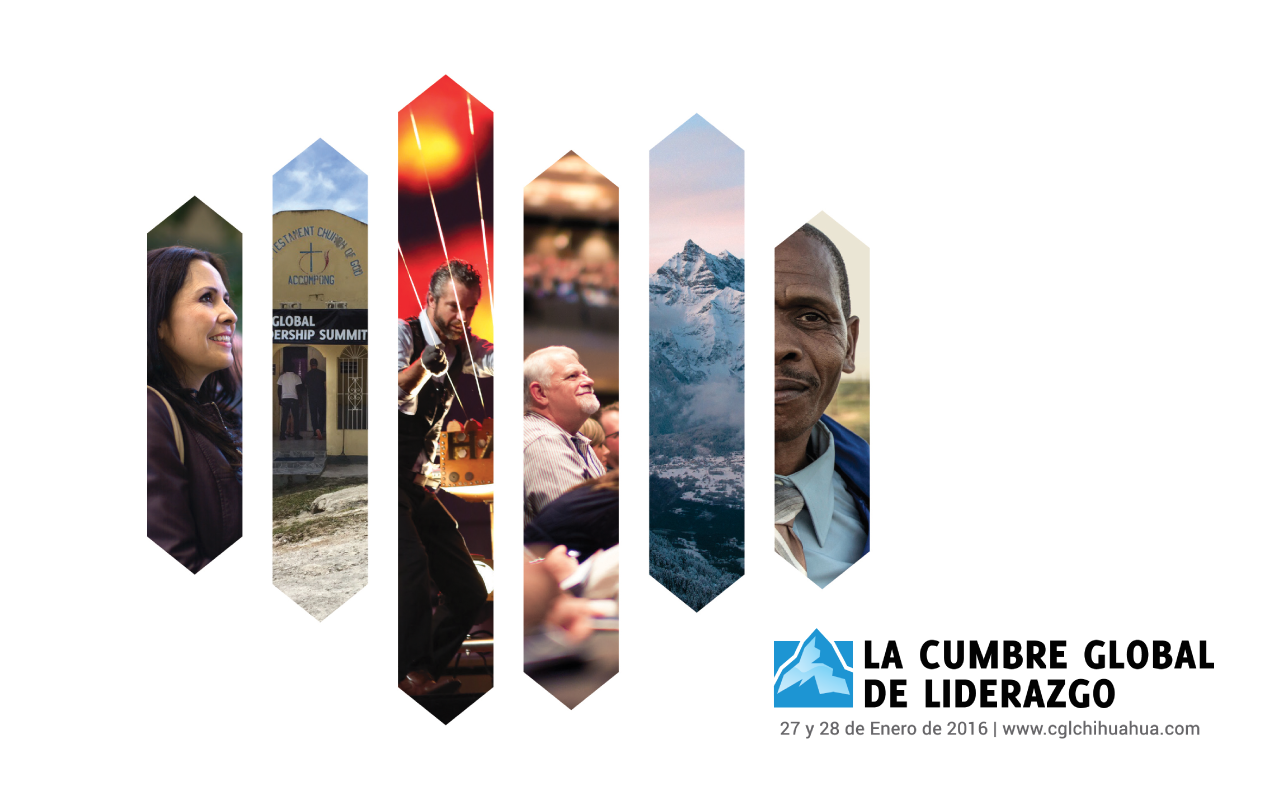
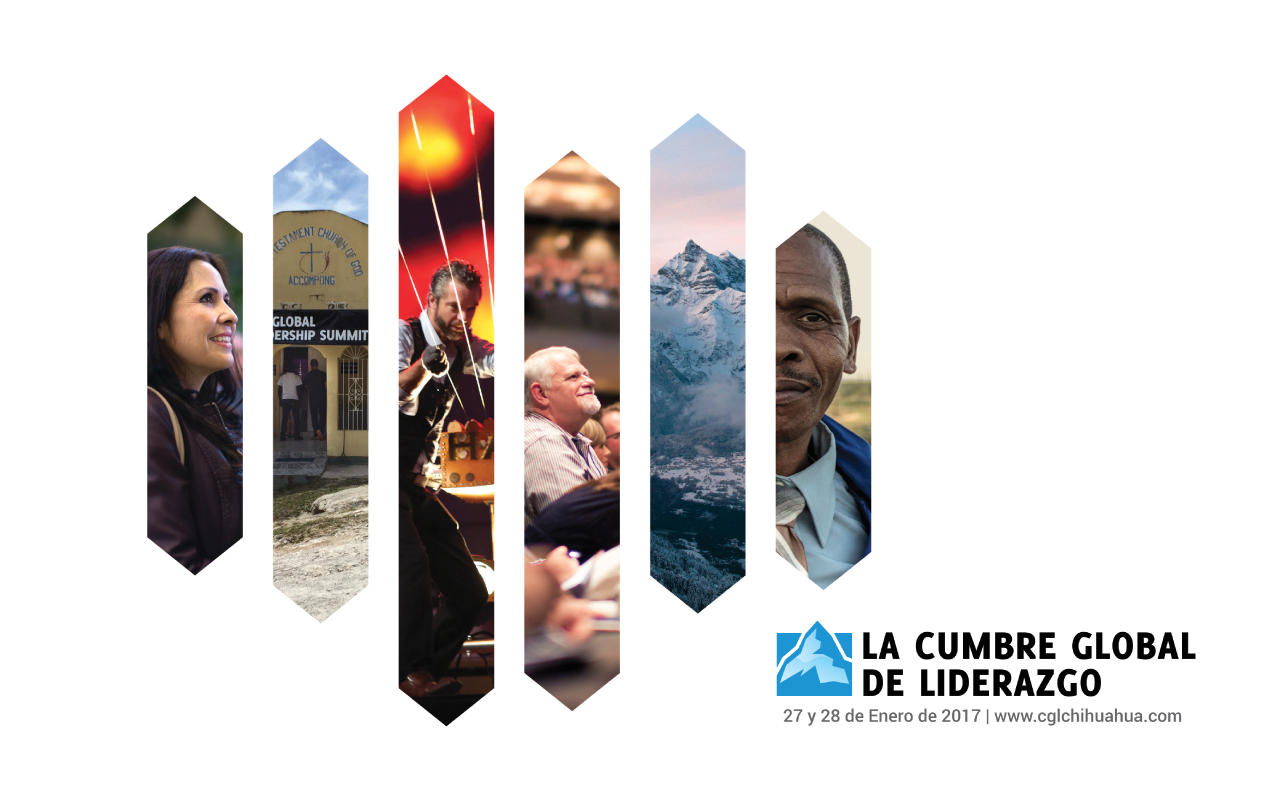
Se agregaron las pestanas de iconos, informacion de cada una de ellas, contacto sin formulario y se modicifo el top page, pero faltan cosas

diff --git a/public/index.html b/public/index.html
@@ -53,7 +53,7 @@
       <div id="top" class="container">
           <div class="row">
               <div class="col-xs-12 vertical-center mainArtContainer">
-                  <img src="img/thumbs/cumbre-thumb5.png" alt="TGLS2016 Main Art" class="mainArt"/>
+                  <img src="img/thumbs/cumbre-thumb6.png" alt="TGLS2016 Main Art" class="mainArt"/>
               </div>
           </div>
       </div>
@@ -115,47 +115,18 @@
         <div class="container">
           <div class="col-lg-12">
             <ul class="nav nav-tabs nav-tabs-titles" role="tablist">
-              <a href="#ubicacionFecha" class="col-lg-3 col-sm-6" aria-controls="ubicacionFecha" role="tab" data-toggle="tab">
+              <a href="#{{icon.id}}" class="col-sm-3 col-xs-6 scroll" aria-controls="{{icon.id}}" role="tab" data-toggle="tab" ng-repeat="icon in informacionIcons">
                 <li role="presentation" class="active  hvr-grow">
                     <div class="col-lg-12">
-                      <img class="icons" src="img/icons/icon_travel_locations.png" alt="Ubicacion" />
+                      <img class="icons" ng-src="{{icon.icon_url}}" alt="{{icon.id}}" />
                     </div>
                     <div class="col-lg-12">
-                      UBICACION & FECHAS
-                    </div>
-                </li>
-              </a>
-              <a href="#registro" class="col-lg-3 col-sm-6" aria-controls="registro" role="tab" data-toggle="tab">
-                <li role="presentation" class=" hvr-grow">
-                    <div class="col-lg-12">
-                      <img class="icons" src="img/icons/icon_travel_registration.png" alt="Registro" />
-                    </div>
-                    <div class="col-lg-12">
-                      REGISTRO
-                    </div>
-                </li>
-              </a>
-              <a href="#agenda" class="col-lg-3 col-sm-6"  aria-controls="agenda" role="tab" data-toggle="tab">
-                <li role="presentation" class=" hvr-grow">
-                    <div class="col-lg-12">
-                      <img class="icons" src="img/icons/icon_travel_agenda.png" alt="agenda" />
-                    </div>
-                    <div class="col-lg-12">
-                      AGENDA
-                    </div>
-                </li>
-              </a>
-              <a href="#precios"  class="col-lg-3 col-sm-6" aria-controls="precios" role="tab" data-toggle="tab">
-                <li role="presentation" class=" hvr-grow">
-                    <div class="col-lg-12">
-                      <img class="icons" src="img/icons/icon_travel_pricing.png" alt="" />
-                    </div>
-                    <div class="col-lg-12">
-                      PRECIOS
+                      {{icon.nombre}}
                     </div>
                 </li>
               </a>
             </ul>
+            <hr>
             <div class="tab-content">
               <div role="tabpanel" class="tab-pane active" id="ubicacionFecha">
                 <h3>UBICACION & FECHAS</h3>
@@ -164,13 +135,116 @@
                     <iframe src='https://www.google.com/maps/embed?pb=!1m18!1m12!1m3!1d3501.7719342696!2d-106.08611168791084!3d28.636596690654216!2m3!1f0!2f0!3f0!3m2!1i1024!2i768!4f13.1!3m3!1m2!1s0x86ea44c5be3e84bd%3A0xd7b2caa3d186c81b!2sMuseo+Semilla!5e0!3m2!1sen!2smx!4v1465948453243' width='600' height='450' frameborder='0' style='border:0' allowfullscreen></iframe>
                   </div>
                 </div>
-                <div class="col-lg-4 col-sm-12">
+                <div class="col-lg-4 col-sm-12 ubicacionFechaText">
+                  <h3>UBICACION</h3>
+                  <div class="text-left">
+                    <p>Museo Semilla</p>
+                    <p>Auditorio Leonardo Da Vinci</p>
+                  </div>
+                  <div class="ubicacionFechaDireccion">
+                    <p>Privada Progreso 1201, San Pedro, </p>
+                    <p>Zona Centro II, 31000,</p>
+                    <p>Chihuahua, Chih, Mx.</p>
+                  </div>
+                  <h3>FECHAS</h3>
+                  <div class="ubicacionFechaFechas">
+                    <p>Dia 1 - Viernes 27 de Enero</p>
+                    <p>Dia 2 - Sabado 28 de Enero</p>
+                  </div>
+                  <div class="comInfo">
+                    <h5>*Los dos dias incluyen refrigerios y comida. </h5>
+                  </div>
+                </div>
+              </div>
+              <div role="tabpanel" class="tab-pane" id="registro">
+                <h3>REGISTRO</h3>
+                <div class="col-lg-12">
                   AQUI VAN LAS FECHAS
                 </div>
               </div>
-              <div role="tabpanel" class="tab-pane" id="registro">registro</div>
-              <div role="tabpanel" class="tab-pane" id="agenda">agenda</div>
-              <div role="tabpanel" class="tab-pane" id="precios">precios</div>
+              <div role="tabpanel" class="tab-pane" id="agenda">
+                <h3>AGENDA</h3>
+                <div class="col-lg-12">
+                  <div class="agenda">
+                    <div class="table-responsive">
+                        <table class="table table-condensed table-bordered">
+                            <thead>
+                                <tr>
+                                    <th>Fecha</th>
+                                    <th>Hora</th>
+                                    <th>Evento</th>
+                                </tr>
+                            </thead>
+                            <tbody>
+                                <tr>
+                                    <td class="agenda-date" class="active" rowspan="1">
+                                        <div class="dayofmonth">27</div>
+                                        <div class="dayofweek">Viernes</div>
+                                        <div class="shortdate text-muted">Enero, 2017</div>
+                                    </td>
+                                    <td class="agenda-time">
+                                        6:00 PM
+                                    </td>
+                                    <td class="agenda-events">
+                                        <div class="agenda-event">
+                                            Algun Evento
+                                        </div>
+                                    </td>
+                                </tr>
+                                <tr>
+                                    <td class="agenda-date" class="active" rowspan="3">
+                                        <div class="dayofmonth">28</div>
+                                        <div class="dayofweek">Sabado</div>
+                                        <div class="shortdate text-muted">Enero, 2017</div>
+                                    </td>
+                                    <td class="agenda-time">
+                                        8:00 - 9:00 AM
+                                    </td>
+                                    <td class="agenda-events">
+                                        <div class="agenda-event">
+                                            Algun Evento
+                                        </div>
+                                    </td>
+                                </tr>
+                                <tr>
+                                    <td class="agenda-time">
+                                        10:15 AM - 12:00 PM
+                                    </td>
+                                    <td class="agenda-events">
+                                        <div class="agenda-event">
+                                            Algun Evento
+                                        </div>
+                                    </td>
+                                </tr>
+                                <tr>
+                                    <td class="agenda-time">
+                                        7:00 - 9:00 PM
+                                    </td>
+                                    <td class="agenda-events">
+                                        <div class="agenda-event">
+                                            Algun Evento
+                                        </div>
+                                    </td>
+                                </tr>
+                            </tbody>
+                        </table>
+                    </div>
+                  </div>
+                </div>
+              </div>
+              <div role="tabpanel" class="tab-pane" id="precios">
+                <h3>PRECIOS</h3>
+                <div class="col-xs-6 col-sm-4 informacionPrecios" ng-repeat="precio in informacionPrecios">
+                  <div class="preciosI">
+                    <img ng-src="{{precio.icon_url}}" alt="{{precio.nombre}}" />
+                    <h3>{{precio.nombre}}<br><span>{{precio.needed}}</span></h3>
+                    <h4>{{precio.precio | currency:"MXN$"}} <span>{{precio.ex}}</span></h4>
+                  </div>
+                </div >
+                <h6 class="col-xs-12">
+                  *Todas las entradas incluyen gafete oficial de la Cumbre Global de Liderazgo, Notebook para hacer anotaciones durante las conferencias, con anotaciones de cada conferencistae, pluma de la cumbre, refrigerio entre conferencias y comida el Sabado 28.
+                </h6>
+              </div>
             </div>
           </div>
         </div>
@@ -192,6 +266,14 @@
           <i class="arrow-w"><i></i></i>
         </div>
       </div>
+
+      <footer class="footer">
+        <div class="container">
+          <div class="col-lg-12">
+            <h5>&copy {{date | date:'yyyy'}} Cumbre Global de Liderazgo | Chihuahua All Rights Reserved.</h5>
+          </div>
+        </div>
+      </footer>
 
       <script src="js/angular.min.js"></script>
       <script src="js/jquery.js"></script>

diff --git a/public/css/main.css b/public/css/main.css
@@ -34,7 +34,7 @@ a{
   min-height: 100vh;
 
   display: flex;
-  align-items: center;
+  align-items: flex-start;
 }
 #mainNav{
   font-family: RobotoCB;
@@ -123,7 +123,7 @@ a{
   padding-bottom: 20px;
 }
 #Informacion .icons{
-  width: 60%;
+  height: 90px;
 }
 #Informacion a{
   color: #fff;
@@ -135,13 +135,75 @@ a{
 }
 #Informacion .nav-tabs-titles{
   font-family: RobotoL;
-  border-bottom: 1px solid #fff;
+  border-bottom: 0px solid #fff;
   padding-bottom: 15px;
 }
+
+#Informacion .preciosI{
+  padding: 15px 5px 15px 5px;
+  border: 1px solid #fff;
+  border-radius: 4px;
+}
+#Informacion .informacionPrecios{
+  text-align: center;
+  margin: 10px 0;
+}
+#Informacion .informacionPrecios span{
+  font-size: 15px;
+}
+#ubicacionFecha .ubicacionFechaText{
+  font-size: 18px;
+  font-family: RobotoCR;
+}
+#ubicacionFecha .ubicacionFechaText p{
+  margin: 0;
+}
+#ubicacionFecha .ubicacionFechaDireccion {
+  margin-top: 15px;
+  text-align: left;
+  font-size: 12px;
+  font-family: RobotoR;
+}
+#ubicacionFecha .ubicacionFechaFechas{
+  margin-top: 15px;
+  text-align: left;
+  font-size: 15px;
+  font-family: RobotoR;
+}
+#ubicacionFecha .comInfo{
+  margin-top: 20px;
+}
+.agenda {  }
+
+/* Dates */
+.agenda .agenda-date { width: 170px; }
+.agenda .agenda-date .dayofmonth {
+  width: 40px;
+  font-size: 36px;
+  line-height: 36px;
+  float: left;
+  text-align: right;
+  margin-right: 10px;
+}
+.agenda .agenda-date .shortdate {
+  font-size: 0.75em;
+}
+
+
+/* Times */
+.agenda .agenda-time { width: 140px; }
+
+
+/* Events */
+.agenda .agenda-events {  }
+.agenda .agenda-events .agenda-event {  }
 
 #Contacto{
   background-color: #57585a;
   color: #fff;
+  text-align: center;
+}
+.footer{
   text-align: center;
 }
 .arrow {
@@ -191,6 +253,10 @@ a{
 .col-xs-15 {
     width: 20%;
     float: left;
+}
+.navbar-default .navbar-nav>.active>a, .navbar-default .navbar-nav>.active>a:focus, .navbar-default .navbar-nav>.active>a:hover {
+  color: #fff;
+  background-color: transparent;
 }
 .navbar-toggle{
   border: 0px solid black;

diff --git a/public/js/main.js b/public/js/main.js
@@ -16,8 +16,27 @@ App.controller('main-controller', ['$scope', function($scope) {
      $('#mainNav').fadeOut();
    }
  });
- 
 
+  $("a").click(function(event) {
+    event.preventDefault();
+    $('html,body').animate( {
+      scrollTop: $(this.hash).offset().top - 49
+    } , 1000);
+  });
+
+  jQuery(document).ready(function ($) {
+    $('.nav a').click(function (e) {
+      e.preventDefault()
+      $(this).tab('show')
+    })
+
+    $('a.scroll').on('click', function (e) { //Scroll down a informacion
+      $('html, body').animate({
+          scrollTop: $($(this).attr('href')).offset().top - 250
+      }, 1000);
+      e.preventDefault();
+    });
+  });
   $scope.conferencistas = [
             {
                 no: 1,
@@ -138,4 +157,48 @@ App.controller('main-controller', ['$scope', function($scope) {
             },
 
         ];
+  $scope.informacionIcons = [
+    {
+      icon_url: "img/icons/icon_travel_locations.png",
+      nombre:"UBICACION & FECHAS",
+      id: "ubicacionFecha"
+    },
+    {
+      icon_url: "img/icons/icon_travel_registration.png",
+      nombre:"REGISTRO",
+      id: "registro"
+    },
+    {
+      icon_url: "img/icons/icon_travel_agenda.png",
+      nombre:"AGENDA",
+      id: "agenda"
+    },
+    {
+      icon_url: "img/icons/icon_travel_pricing.png",
+      nombre:"PRECIOS",
+      id: "precios"
+    },
+  ]
+  $scope.informacionPrecios = [
+    {
+      nombre: "INDIVIDUAL",
+      icon_url:"img/icons/icon_register.png",
+      needed: "1 Persona",
+      precio: 550
+    },
+    {
+      nombre: "GRUPOS",
+      icon_url:"img/icons/icon_register_group.png",
+      needed: "+ 10 Personas",
+      precio: 500,
+      ex: "c/u"
+    },
+    {
+      nombre: "ESTUDIANTES",
+      icon_url:"img/icons/icon_register.png",
+      needed: "Con credencial",
+      precio: 450
+    },
+  ]
+  $scope.date = new Date();
 }]);
